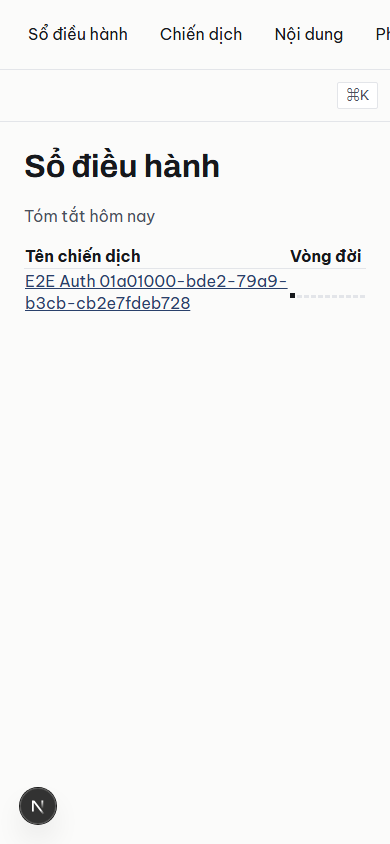
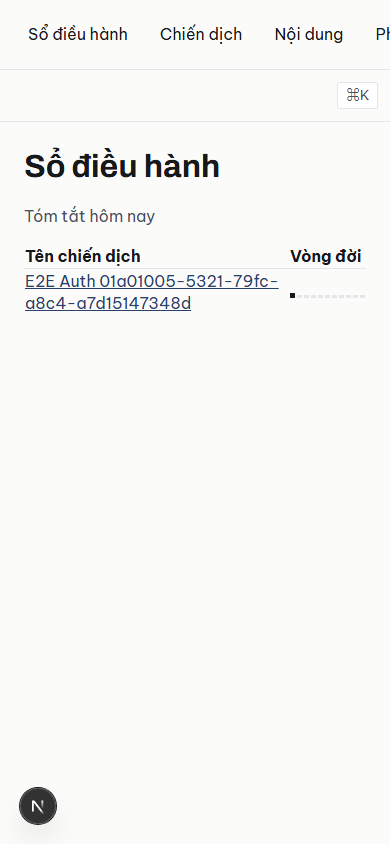
test(e2e): wait for content before capturing E7 screenshots
The screenshots were taken immediately after goto, so Next.js streaming
meant they captured the loading fallback -- the desktop console image was
a picture of the word "Dang tai" and nothing else. A screenshot of a
spinner is not evidence that the console works.

Waiting for the fallback to clear is also an assertion: a page that never
leaves its loading state now fails the test instead of quietly producing
a useless image.

Changed region(s): [[0.0615, 0.3081, 0.7077, 0.3697]]

diff --git a/apps/web/e2e/auth.spec.ts b/apps/web/e2e/auth.spec.ts
@@ -87,6 +87,13 @@ test.describe("E7: a real browser reaches the authenticated console", () => {
       await page.setViewportSize(size);
       for (const path of ["/", "/approvals", "/analytics", `/campaigns/${a.campaignId}`]) {
         await page.goto(path);
+        // Wait for the streamed content to replace the loading fallback before
+        // capturing. Without this the screenshot catches "Đang tải" and the
+        // evidence proves only that a spinner renders -- which is exactly what
+        // it did until this assertion was added. Waiting here is also an
+        // assertion in its own right: if a page never leaves its loading
+        // state, this fails rather than quietly producing a useless image.
+        await expect(page.getByText("Đang tải")).toHaveCount(0, { timeout: 15_000 });
         await page.screenshot({
           path: resolve(ASSETS_DIR, `e2e-auth-${name}-${path.replace(/\W+/g, "_")}.png`),
           fullPage: true,
